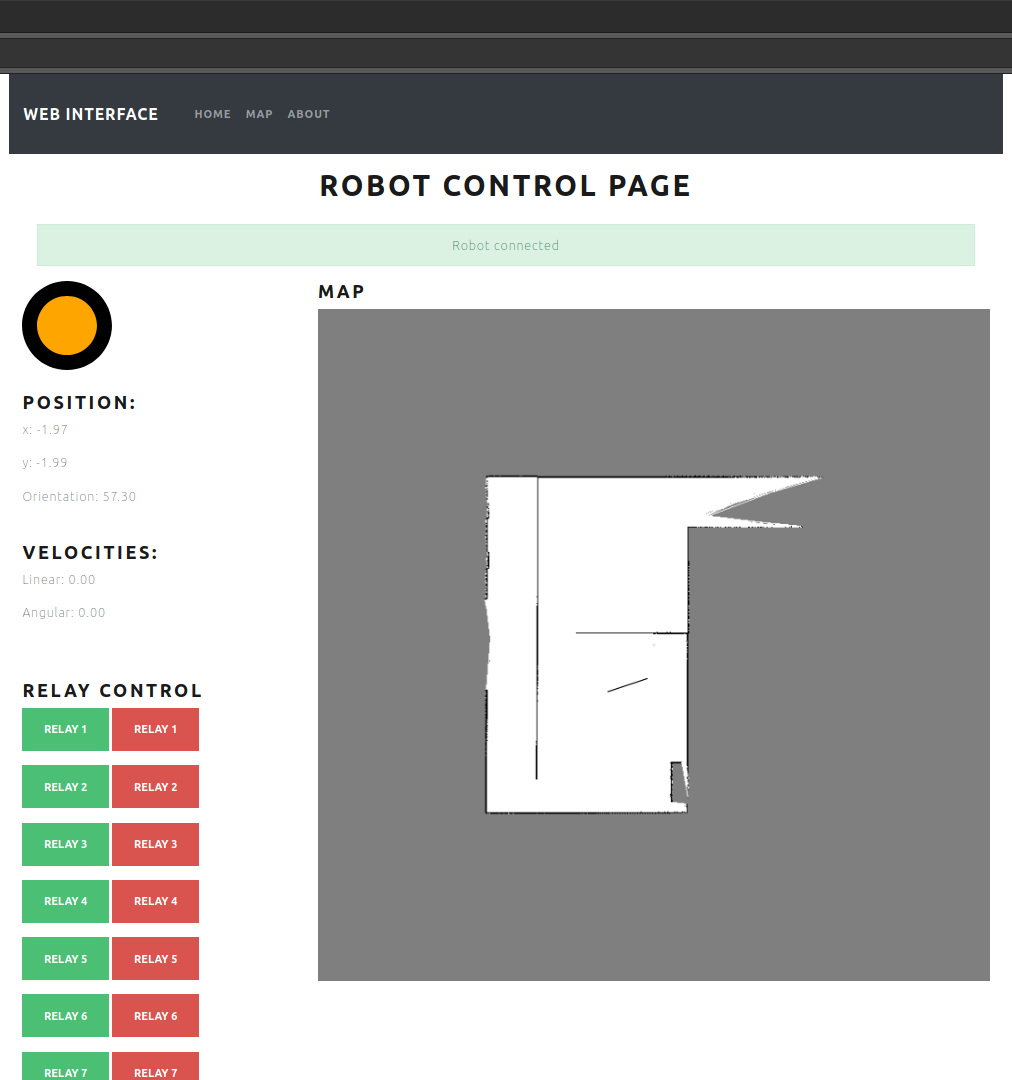
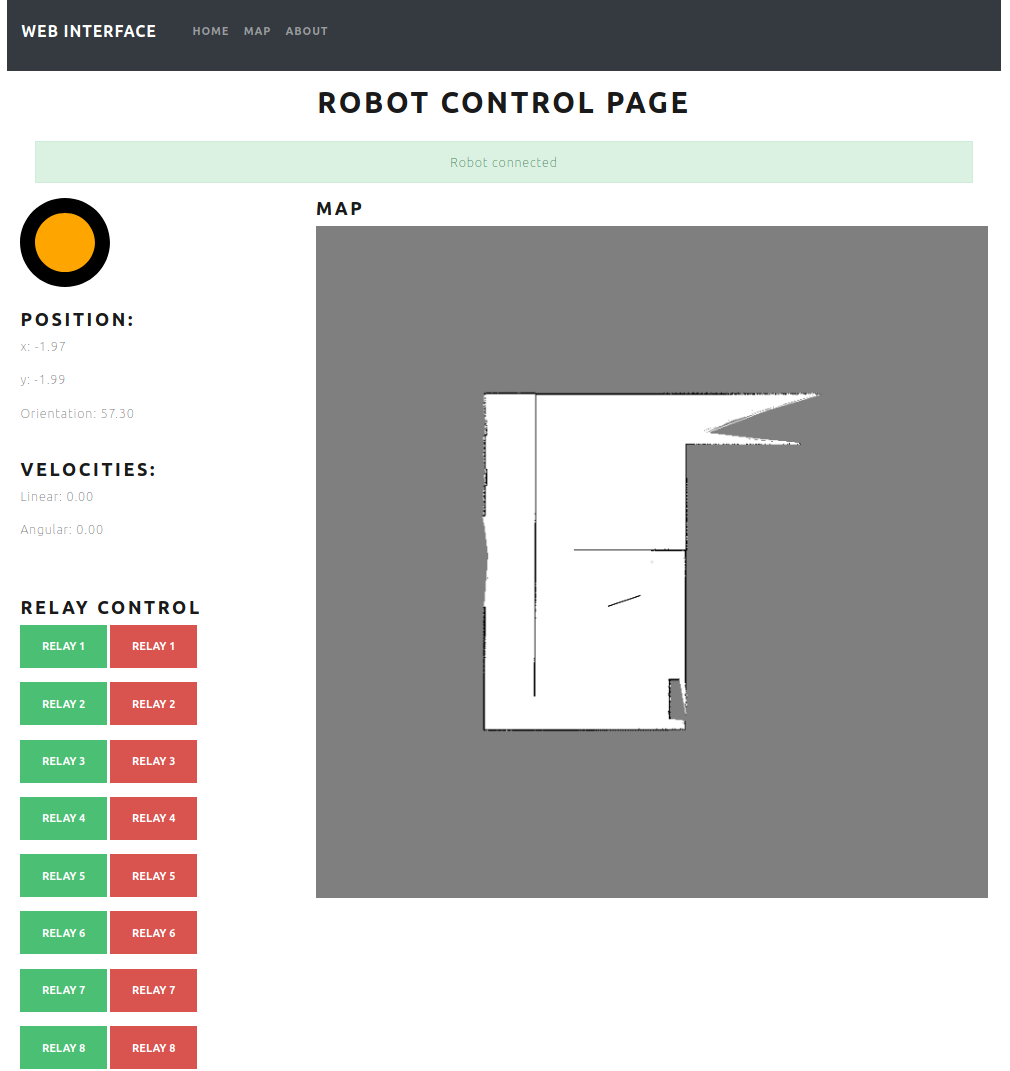
Small button future

diff --git a/react-ros-robot/src/components/RelayControl.jsx b/react-ros-robot/src/components/RelayControl.jsx
@@ -271,30 +271,30 @@ class RelayControl extends Component {
     return (
       <>
         <div className="mb-5"></div>
-        <h4 className="mb-2">RELAY CONTROL</h4>
-        <Button variant="success" onClick={this.handleOpen_1}>Relay 1</Button>{' '}
-        <Button variant="danger" onClick={this.handleClose_1} >Relay 1</Button>{' '}
+        <h5 className="mb-2">RELAY CONTROL</h5>
+        <Button variant="success btn-sm" onClick={this.handleOpen_1}>Relay 1</Button>{' '}
+        <Button variant="danger btn-sm" onClick={this.handleClose_1} >Relay 1</Button>{' '}
         <ol></ol>
-        <Button variant="success" onClick={this.handleOpen_2} >Relay 2</Button>{' '}
-        <Button variant="danger" onClick={this.handleClose_2}>Relay 2</Button>{' '}
+        <Button variant="success btn-sm" onClick={this.handleOpen_2} >Relay 2</Button>{' '}
+        <Button variant="danger btn-sm" onClick={this.handleClose_2}>Relay 2</Button>{' '}
         <ol></ol>
-        <Button variant="success" onClick={this.handleOpen_3}>Relay 3</Button>{' '}
-        <Button variant="danger" onClick={this.handleClose_3}>Relay 3</Button>{' '}
+        <Button variant="success btn-sm" onClick={this.handleOpen_3}>Relay 3</Button>{' '}
+        <Button variant="danger btn-sm" onClick={this.handleClose_3}>Relay 3</Button>{' '}
         <ol></ol>
-        <Button variant="success" onClick={this.handleOpen_4}>Relay 4</Button>{' '}
-        <Button variant="danger" onClick={this.handleClose_4}>Relay 4</Button>{' '}
+        <Button variant="success btn-sm" onClick={this.handleOpen_4}>Relay 4</Button>{' '}
+        <Button variant="danger btn-sm" onClick={this.handleClose_4}>Relay 4</Button>{' '}
         <ol></ol>
-        <Button variant="success" onClick={this.handleOpen_5}>Relay 5</Button>{' '}
-        <Button variant="danger" onClick={this.handleClose_5}>Relay 5</Button>{' '}
+        <Button variant="success btn-sm" onClick={this.handleOpen_5}>Relay 5</Button>{' '}
+        <Button variant="danger btn-sm" onClick={this.handleClose_5}>Relay 5</Button>{' '}
         <ol></ol>
-        <Button variant="success" onClick={this.handleOpen_6}>Relay 6</Button>{' '}
-        <Button variant="danger" onClick={this.handleClose_6}>Relay 6</Button>{' '}
+        <Button variant="success btn-sm" onClick={this.handleOpen_6}>Relay 6</Button>{' '}
+        <Button variant="danger btn-sm" onClick={this.handleClose_6}>Relay 6</Button>{' '}
         <ol></ol>
-        <Button variant="success" onClick={this.handleOpen_7}>Relay 7</Button>{' '}
-        <Button variant="danger" onClick={this.handleClose_7}>Relay 7</Button>{' '}
+        <Button variant="success btn-sm" onClick={this.handleOpen_7}>Relay 7</Button>{' '}
+        <Button variant="danger btn-sm" onClick={this.handleClose_7}>Relay 7</Button>{' '}
         <ol></ol>
-        <Button variant="success" onClick={this.handleOpen_8}>Relay 8</Button>{' '}
-        <Button variant="danger" onClick={this.handleClose_8}>Relay 8</Button>{' '}
+        <Button variant="success btn-sm" onClick={this.handleOpen_8}>Relay 8</Button>{' '}
+        <Button variant="danger btn-sm" onClick={this.handleClose_8}>Relay 8</Button>{' '}
       </>
     );
   }

diff --git a/react-ros-robot/src/components/RobotState.jsx b/react-ros-robot/src/components/RobotState.jsx
@@ -135,7 +135,7 @@ class RobotState extends Component {
             <div>
                 <Row>
                     <Col>
-                        <h4 className="mt-4"> Position:</h4>
+                        <h5 className="mt-4"> Position:</h5>
                         <p className="mt-0">x: {this.state.x}</p>
                         <p className="mt-0">y: {this.state.y}</p>
                         <p className="mt-0">Orientation: {this.state.orientation}</p>
@@ -143,7 +143,7 @@ class RobotState extends Component {
                 </Row>
                 <Row>
                     <Col>
-                        <h4 className="mt-4"> Velocities:</h4>
+                        <h5 className="mt-4"> Velocities:</h5>
                         <p className="mt-0">Linear: {this.state.linear}</p>
                         <p className="mt-0">Angular: {this.state.angular}</p>
                     </Col>
